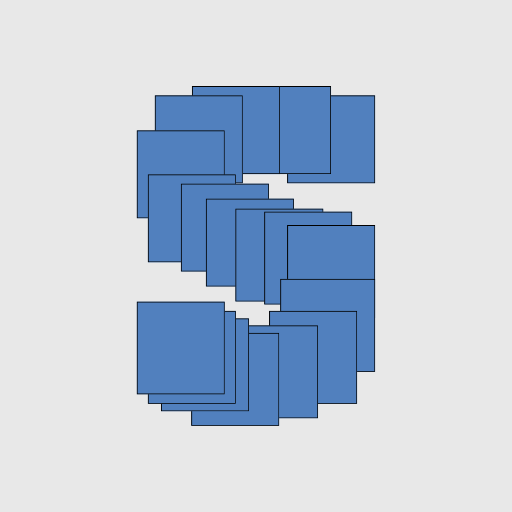
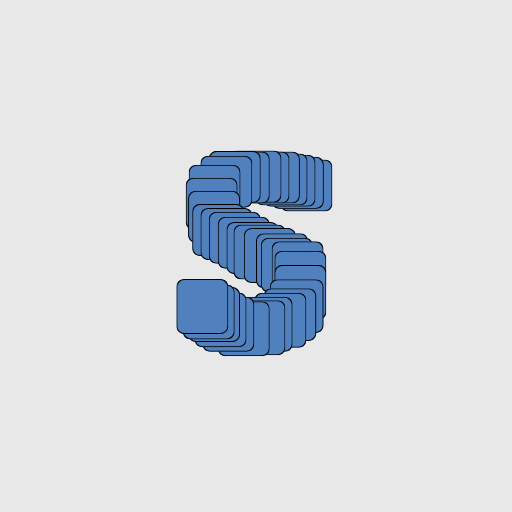
fix: implement global duplicate name validation across all entities
Changes:
- Add ContainerRepository.getAllContainers() to fetch all containers globally
- Update ContainerService to check duplicate names globally (not just per-space)
- Update ItemService to check duplicate names globally (not just per-location)
- Update error messages to remove location context since names are now globally unique
- Update VoiceModal error handlers to display actual error messages from services

This fixes:
1. Voice input now shows proper duplicate name errors
2. Duplicate names are now prevented across all spaces and containers
3. User receives clear error messages instead of generic fallback messages

Changed region(s): [[0.25, 0.1562, 0.75, 0.8438]]

diff --git a/app/src/repositories/ContainerRepository.ts b/app/src/repositories/ContainerRepository.ts
@@ -174,6 +174,42 @@ export class ContainerRepository {
   }
 
   /**
+   * Get all containers across all spaces
+   *
+   * @returns Array of Container objects from all spaces
+   * @throws ServiceError if database operation fails
+   *
+   * SQL: SELECT * FROM containers
+   */
+  static async getAllContainers(): Promise<Container[]> {
+    try {
+      const db = getDatabase();
+
+      const result = await db.getAllAsync('SELECT * FROM containers');
+
+      // Map database rows (snake_case) to Container objects (camelCase)
+      return (result as any[]).map((row: ContainerRow) => ({
+        id: row.id,
+        name: row.name,
+        spaceId: row.space_id,
+        createdAt: row.created_at,
+        photoUri: row.photo_uri ?? null,
+      }));
+    } catch (error) {
+      // Convert database error to ServiceError
+      const serviceError: ServiceError = {
+        code: 'DB_ERROR',
+        message: 'Failed to retrieve containers. Try again.',
+      };
+
+      // Log error for debugging
+      console.error('[ContainerRepository.getAllContainers] Database error:', error);
+
+      throw serviceError;
+    }
+  }
+
+  /**
    * Delete a container by id
    * Items inside the container will have container_id set to NULL (ON DELETE SET NULL)
    */

diff --git a/app/src/features/voice/screens/components/VoiceModal.tsx b/app/src/features/voice/screens/components/VoiceModal.tsx
@@ -490,8 +490,9 @@ export default function VoiceModal({ visible, onClose, onItemAdded, onNavigateTo
       setSessionState({ phase: 'success', action: 'return', itemName: returnItemName, location: returnBorrowerName });
       onItemAdded?.();
       setTimeout(() => { onClose(); setSessionState({ phase: 'idle' }); }, 1500);
-    } catch {
-      setSessionState({ phase: 'error', message: 'Failed to mark as returned — try again' });
+    } catch (err: any) {
+      const errorMessage = err?.message || 'Failed to mark as returned — try again';
+      setSessionState({ phase: 'error', message: errorMessage });
     }
   };
 
@@ -505,8 +506,9 @@ export default function VoiceModal({ visible, onClose, onItemAdded, onNavigateTo
       setSessionState({ phase: 'success', action: 'lend', itemName: item.name, location: borrower });
       onItemAdded?.();
       setTimeout(() => { onClose(); setSessionState({ phase: 'idle' }); }, 1500);
-    } catch {
-      setSessionState({ phase: 'error', message: 'Failed to lend item — try again' });
+    } catch (err: any) {
+      const errorMessage = err?.message || 'Failed to lend item — try again';
+      setSessionState({ phase: 'error', message: errorMessage });
     }
   };
 
@@ -522,8 +524,9 @@ export default function VoiceModal({ visible, onClose, onItemAdded, onNavigateTo
         onClose();
         setSessionState({ phase: 'idle' });
       }, 1500);
-    } catch {
-      setSessionState({ phase: 'error', message: 'Failed to create container — try again' });
+    } catch (err: any) {
+      const errorMessage = err?.message || 'Failed to create container — try again';
+      setSessionState({ phase: 'error', message: errorMessage });
     }
   };
 
@@ -537,8 +540,9 @@ export default function VoiceModal({ visible, onClose, onItemAdded, onNavigateTo
         onClose();
         setSessionState({ phase: 'idle' });
       }, 1500);
-    } catch {
-      setSessionState({ phase: 'error', message: 'Failed to create space — try again' });
+    } catch (err: any) {
+      const errorMessage = err?.message || 'Failed to create space — try again';
+      setSessionState({ phase: 'error', message: errorMessage });
     }
   };
 
@@ -597,14 +601,14 @@ export default function VoiceModal({ visible, onClose, onItemAdded, onNavigateTo
         onClose();
         setSessionState({ phase: 'idle' });
       }, 1500);
-    } catch {
-      const errorMsg = isMultiAdd
+    } catch (err: any) {
+      const errorMsg = err?.message || (isMultiAdd
         ? 'Failed to add items — try again'
         : sessionState.phase === 'confirming'
         ? (sessionState.parsed.action === 'move'
           ? 'Failed to move item — try again'
           : 'Failed to add item — try again')
-        : 'Operation failed — try again';
+        : 'Operation failed — try again');
       setSessionState({ phase: 'error', message: errorMsg });
     }
   };

diff --git a/app/src/services/ItemService.ts b/app/src/services/ItemService.ts
@@ -51,15 +51,14 @@ export class ItemService {
         throw error;
       }
 
-      // Check for duplicate name in the same location (space or container)
-      const existingItems = await ItemRepository.getItemsBySpaceId(spaceId);
-      const isDuplicate = existingItems.some(i => 
-        i.name.toLowerCase() === trimmedName.toLowerCase() && 
-        i.containerId === (containerId || null)
+      // Check for duplicate name globally (across all items)
+      const allItems = await ItemRepository.getAll();
+      const isDuplicate = allItems.some(i => 
+        i.name.toLowerCase() === trimmedName.toLowerCase()
       );
 
       if (isDuplicate) {
-        throw { code: 'DUPLICATE_NAME', message: 'An item with this name already exists in this location.' } as unknown as ServiceError;
+        throw { code: 'DUPLICATE_NAME', message: 'An item with this name already exists.' } as unknown as ServiceError;
       }
 
       // Create item in database via repository
@@ -255,17 +254,16 @@ export class ItemService {
         throw error;
       }
 
-      // Check for duplicate name on update
+      // Check for duplicate name on update (globally)
       const item = await ItemRepository.getItemById(itemId);
       if (item) {
-        const existingItems = await ItemRepository.getItemsBySpaceId(item.spaceId);
-        const isDuplicate = existingItems.some(i => 
+        const allItems = await ItemRepository.getAll();
+        const isDuplicate = allItems.some(i => 
           i.id !== itemId &&
-          i.name.toLowerCase() === trimmed.toLowerCase() && 
-          i.containerId === item.containerId
+          i.name.toLowerCase() === trimmed.toLowerCase()
         );
         if (isDuplicate) {
-          throw { code: 'DUPLICATE_NAME', message: 'An item with this name already exists in this location.' } as unknown as ServiceError;
+          throw { code: 'DUPLICATE_NAME', message: 'An item with this name already exists.' } as unknown as ServiceError;
         }
       }
 

diff --git a/app/src/features/spaces/screens/SpacesPage.tsx b/app/src/features/spaces/screens/SpacesPage.tsx
@@ -96,6 +96,9 @@ export default function SpacesPage() {
   const [deleting, setDeleting] = useState(false);
   const [editingSpace, setEditingSpace] = useState<SpaceWithCount | null>(null);
 
+  // Guard to prevent multiple simultaneous form openings
+  const formOpeningRef = useRef(false);
+
   // Load persisted preferences
   useEffect(() => {
     Promise.all([
@@ -110,7 +113,8 @@ export default function SpacesPage() {
   }, []);
 
   useEffect(() => {
-    if (openCreate === '1') {
+    if (openCreate === '1' && !formOpeningRef.current) {
+      formOpeningRef.current = true;
       setFormVisible(true);
     }
   }, [openCreate]);
@@ -118,7 +122,10 @@ export default function SpacesPage() {
   // Listen for event from + button to open add-space form
   useEffect(() => {
     const sub = DeviceEventEmitter.addListener('synop:open-add-space', () => {
-      setFormVisible(true);
+      if (!formOpeningRef.current) {
+        formOpeningRef.current = true;
+        setFormVisible(true);
+      }
     });
     return () => sub.remove();
   }, []);
@@ -753,7 +760,10 @@ export default function SpacesPage() {
 
       <SpaceFormModal
         visible={formVisible}
-        onClose={() => setFormVisible(false)}
+        onClose={() => {
+          setFormVisible(false);
+          formOpeningRef.current = false;
+        }}
         onSubmit={handleCreateSpace}
       />
 

diff --git a/app/src/services/ContainerService.ts b/app/src/services/ContainerService.ts
@@ -51,12 +51,12 @@ export class ContainerService {
         throw error;
       }
 
-      // Check for duplicate name in the same space
-      const existingContainers = await ContainerRepository.getContainersBySpaceId(spaceId);
+      // Check for duplicate name globally (across all spaces)
+      const existingContainers = await ContainerRepository.getAllContainers();
       if (existingContainers.some(c => c.name.toLowerCase() === trimmedName.toLowerCase())) {
         const error = {
           code: 'DUPLICATE_NAME',
-          message: 'A container with this name already exists in this space.',
+          message: 'A container with this name already exists.',
         } as unknown as ServiceError;
         throw error;
       }
@@ -133,16 +133,16 @@ export class ContainerService {
         throw error;
       }
 
-      // Check for duplicate name in the same space
+      // Check for duplicate name globally
       const container = await ContainerRepository.getContainerById(id);
       if (container) {
-        const existing = await ContainerRepository.getContainersBySpaceId(container.spaceId);
+        const existing = await ContainerRepository.getAllContainers();
         const isDuplicate = existing.some(c => 
           c.id !== id && 
           c.name.toLowerCase() === trimmed.toLowerCase()
         );
         if (isDuplicate) {
-          throw { code: 'DUPLICATE_NAME', message: 'A container with this name already exists in this space.' } as unknown as ServiceError;
+          throw { code: 'DUPLICATE_NAME', message: 'A container with this name already exists.' } as unknown as ServiceError;
         }
       }
       await ContainerRepository.updateName(id, trimmed);